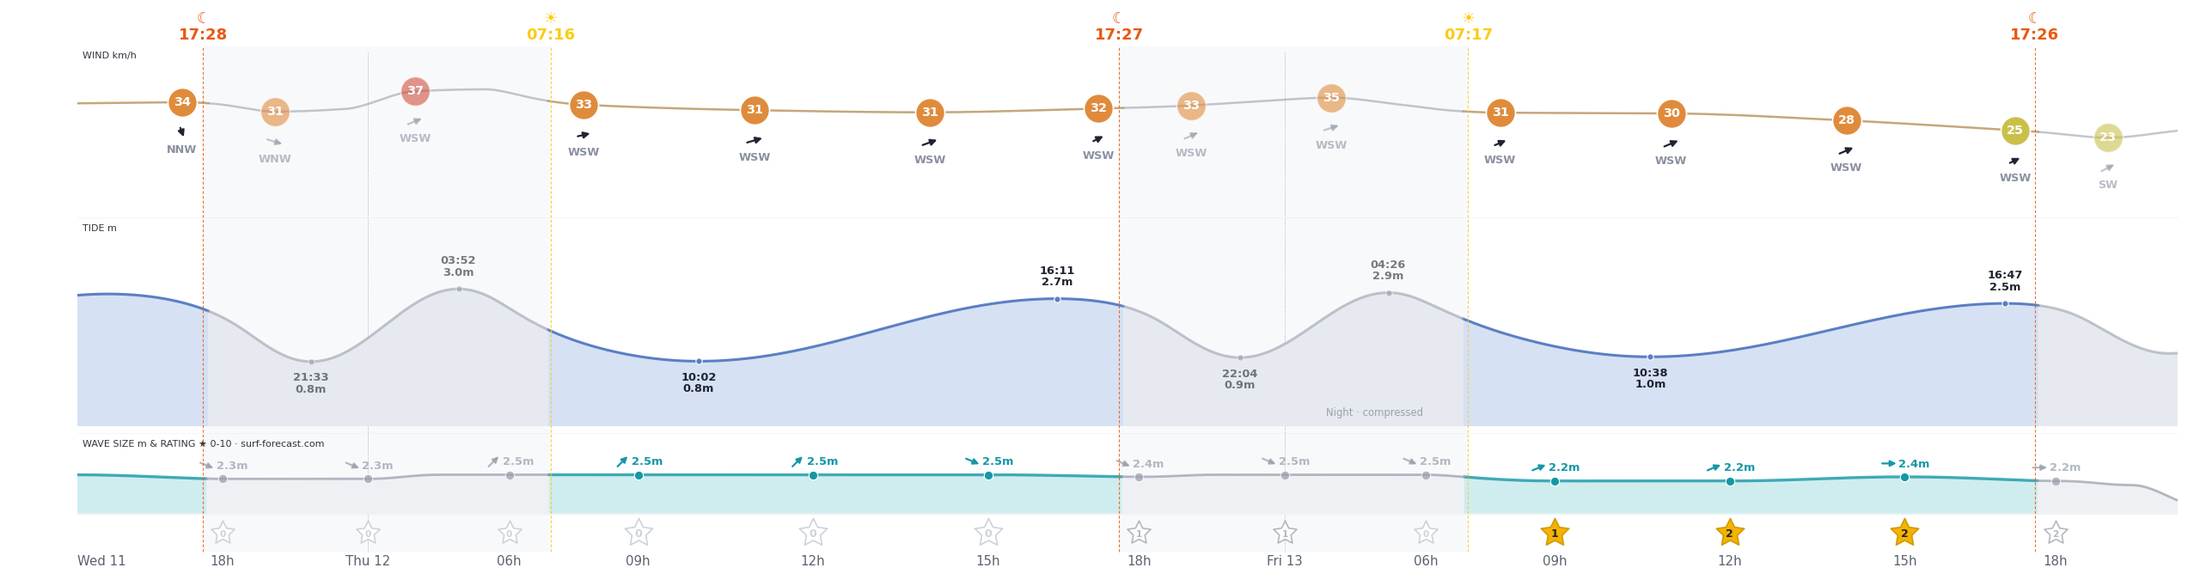
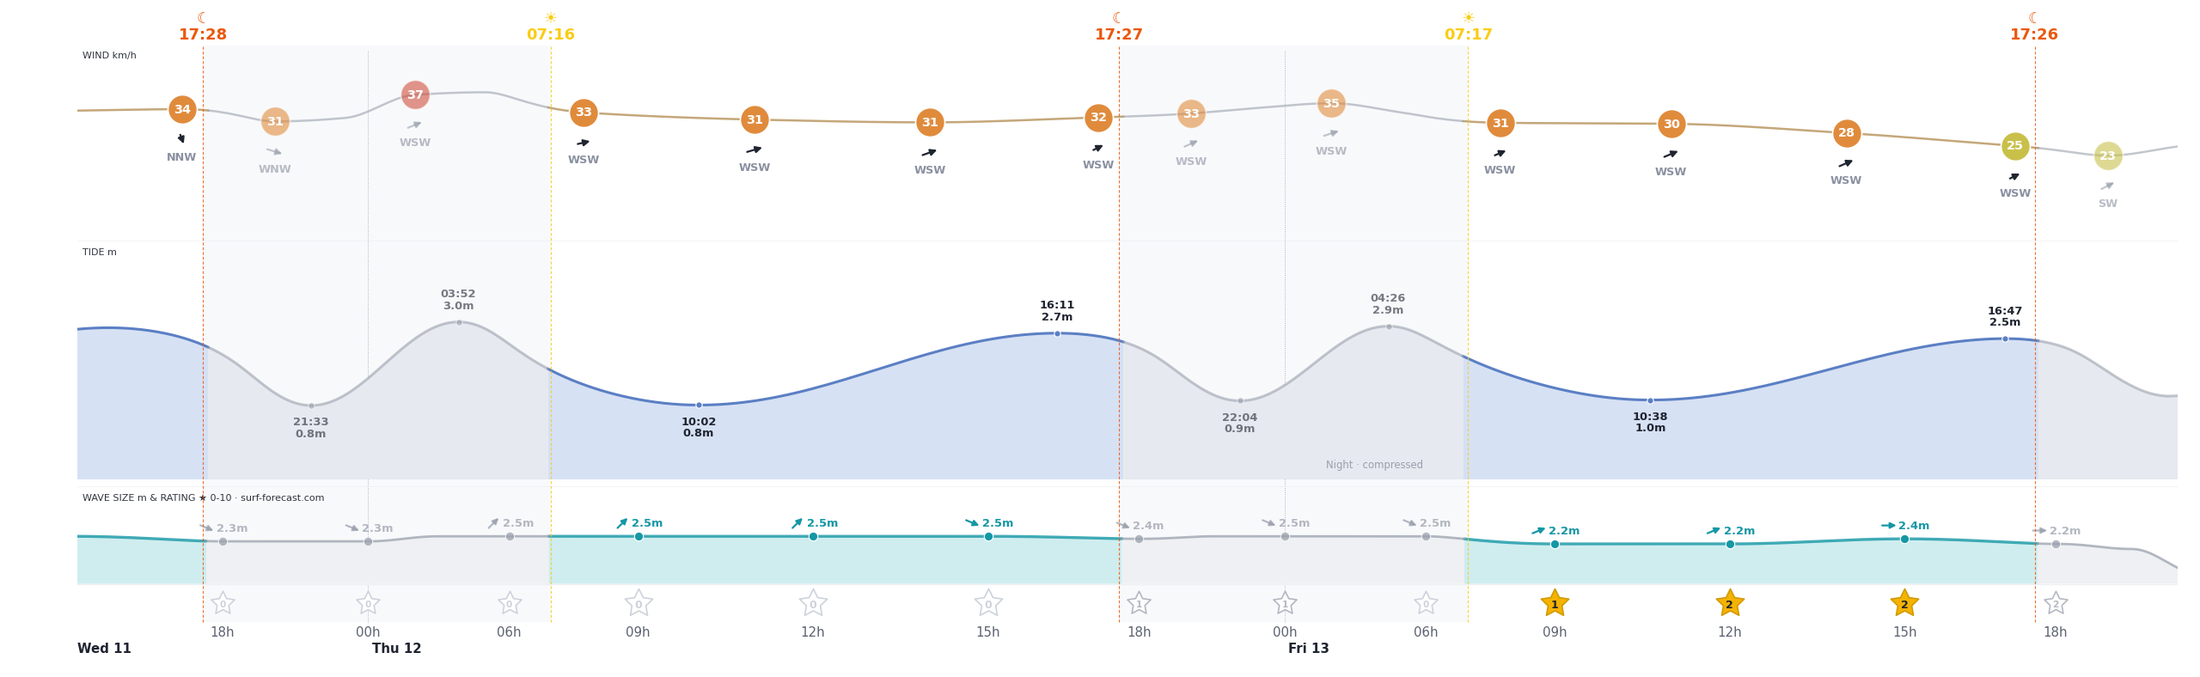
erisurf: run 375

diff --git a/index.html b/index.html
@@ -533,7 +533,7 @@ function draw(){var n=Date.now();cards(n);if(r.open)tide(n)}
 draw();setInterval(draw,60e3);r.addEventListener('toggle',draw);
 document.addEventListener('visibilitychange',function(){if(!document.hidden)draw()});
 if(window.ResizeObserver)new ResizeObserver(function(){if(r.open)draw()}).observe(o);
-})();</script><h2 class="livehd" id="conditions">Wind, tide &amp; surf forecast <span class="plan-fc">· Next 36h</span></h2><figure id="pic-conditions" class="c36"><div class="livechart" data-geo="{&quot;t0&quot;: 1794409529, &quot;t1&quot;: 1794540960, &quot;report&quot;: 1794415289, &quot;left&quot;: 0.035, &quot;right&quot;: 0.99, &quot;top&quot;: 0.0792, &quot;bottom&quot;: 0.9413, &quot;suns&quot;: [1794418108, 1794467790, 1794504456], &quot;sunk&quot;: [&quot;set&quot;, &quot;rise&quot;, &quot;set&quot;], &quot;warp&quot;: [[1794409529, 0.0], [1794409529, 0.0], [1794410429, 0.01129], [1794411329, 0.02254], [1794412229, 0.03369], [1794413129, 0.04465], [1794414029, 0.05533], [1794414929, 0.06562], [1794415829, 0.07541], [1794416729, 0.08463], [1794417629, 0.09321], [1794418529, 0.10112], [1794419429, 0.10835], [1794420329, 0.11495], [1794421229, 0.12098], [1794422129, 0.12651], [1794423029, 0.13165], [1794423929, 0.1365], [1794424829, 0.14117], [1794425729, 0.14573], [1794426629, 0.15026], [1794427529, 0.15478], [1794428429, 0.1593], [1794429329, 0.16382], [1794430229, 0.16834], [1794431129, 0.17285], [1794432029, 0.17737], [1794432929, 0.18189], [1794433829, 0.18641], [1794434729, 0.19093], [1794435629, 0.19545], [1794436529, 0.19997], [1794437429, 0.20449], [1794438329, 0.20901], [1794439229, 0.21353], [1794440129, 0.21805], [1794441029, 0.22256], [1794441929, 0.22708], [1794442829, 0.2316], [1794443729, 0.23612], [1794444629, 0.24064], [1794445529, 0.24516], [1794446429, 0.24968], [1794447329, 0.2542], [1794448229, 0.25872], [1794449129, 0.26324], [1794450029, 0.26776], [1794450929, 0.27227], [1794451829, 0.27679], [1794452729, 0.28131], [1794453629, 0.28583], [1794454529, 0.29035], [1794455429, 0.29487], [1794456329, 0.29939], [1794457229, 0.30391], [1794458129, 0.30843], [1794459029, 0.31295], [1794459929, 0.31747], [1794460829, 0.32201], [1794461729, 0.32664], [1794462629, 0.33142], [1794463529, 0.33645], [1794464429, 0.34184], [1794465329, 0.34769], [1794466229, 0.35409], [1794467129, 0.36111], [1794468029, 0.36879], [1794468929, 0.37715], [1794469829, 0.38616], [1794470729, 0.39577], [1794471629, 0.4059], [1794472529, 0.41646], [1794473429, 0.42734], [1794474329, 0.43844], [1794475229, 0.44966], [1794476129, 0.46095], [1794477029, 0.47224], [1794477929, 0.48354], [1794478829, 0.49484], [1794479729, 0.50614], [1794480629, 0.51743], [1794481529, 0.52873], [1794482429, 0.54003], [1794483329, 0.55133], [1794484229, 0.56262], [1794485129, 0.57392], [1794486029, 0.58522], [1794486929, 0.59652], [1794487829, 0.60782], [1794488729, 0.61911], [1794489629, 0.63041], [1794490529, 0.64171], [1794491429, 0.65301], [1794492329, 0.6643], [1794493229, 0.6756], [1794494129, 0.6869], [1794495029, 0.6982], [1794495929, 0.70949], [1794496829, 0.72078], [1794497729, 0.73204], [1794498629, 0.74319], [1794499529, 0.75415], [1794500429, 0.76483], [1794501329, 0.77511], [1794502229, 0.78491], [1794503129, 0.79412], [1794504029, 0.8027], [1794504929, 0.81061], [1794505829, 0.81785], [1794506729, 0.82445], [1794507629, 0.83047], [1794508529, 0.836], [1794509429, 0.84114], [1794510329, 0.84599], [1794511229, 0.85066], [1794512129, 0.85523], [1794513029, 0.85975], [1794513929, 0.86427], [1794514829, 0.86879], [1794515729, 0.87331], [1794516629, 0.87783], [1794517529, 0.88235], [1794518429, 0.88687], [1794519329, 0.89139], [1794520229, 0.89591], [1794521129, 0.90042], [1794522029, 0.90494], [1794522929, 0.90946], [1794523829, 0.91398], [1794524729, 0.9185], [1794525629, 0.92302], [1794526529, 0.92754], [1794527429, 0.93206], [1794528329, 0.93658], [1794529229, 0.9411], [1794530129, 0.94562], [1794531029, 0.95013], [1794531929, 0.95465], [1794532829, 0.95917], [1794533729, 0.96369], [1794534629, 0.96821], [1794535529, 0.97273], [1794536429, 0.97725], [1794537329, 0.98177], [1794538229, 0.98629], [1794539129, 0.99081], [1794540029, 0.99533], [1794540929, 0.99984], [1794540960, 1.0]]}"><a href="img/375/conditions36.png" target="_blank" title="open full size"><img loading="lazy" src="img/375/conditions36.png" alt="wind, tide and forecast"></a><div class="nowline" hidden><span class="nowlbl"></span></div><script>(function(){
+})();</script><h2 class="livehd" id="conditions">Wind, tide &amp; surf forecast <span class="plan-fc">· Next 36h</span></h2><figure id="pic-conditions" class="c36"><div class="livechart" data-geo="{&quot;t0&quot;: 1794409529, &quot;t1&quot;: 1794540960, &quot;report&quot;: 1794415289, &quot;left&quot;: 0.035, &quot;right&quot;: 0.99, &quot;top&quot;: 0.0685, &quot;bottom&quot;: 0.9188, &quot;suns&quot;: [1794418108, 1794467790, 1794504456], &quot;sunk&quot;: [&quot;set&quot;, &quot;rise&quot;, &quot;set&quot;], &quot;warp&quot;: [[1794409529, 0.0], [1794409529, 0.0], [1794410429, 0.01129], [1794411329, 0.02254], [1794412229, 0.03369], [1794413129, 0.04465], [1794414029, 0.05533], [1794414929, 0.06562], [1794415829, 0.07541], [1794416729, 0.08463], [1794417629, 0.09321], [1794418529, 0.10112], [1794419429, 0.10835], [1794420329, 0.11495], [1794421229, 0.12098], [1794422129, 0.12651], [1794423029, 0.13165], [1794423929, 0.1365], [1794424829, 0.14117], [1794425729, 0.14573], [1794426629, 0.15026], [1794427529, 0.15478], [1794428429, 0.1593], [1794429329, 0.16382], [1794430229, 0.16834], [1794431129, 0.17285], [1794432029, 0.17737], [1794432929, 0.18189], [1794433829, 0.18641], [1794434729, 0.19093], [1794435629, 0.19545], [1794436529, 0.19997], [1794437429, 0.20449], [1794438329, 0.20901], [1794439229, 0.21353], [1794440129, 0.21805], [1794441029, 0.22256], [1794441929, 0.22708], [1794442829, 0.2316], [1794443729, 0.23612], [1794444629, 0.24064], [1794445529, 0.24516], [1794446429, 0.24968], [1794447329, 0.2542], [1794448229, 0.25872], [1794449129, 0.26324], [1794450029, 0.26776], [1794450929, 0.27227], [1794451829, 0.27679], [1794452729, 0.28131], [1794453629, 0.28583], [1794454529, 0.29035], [1794455429, 0.29487], [1794456329, 0.29939], [1794457229, 0.30391], [1794458129, 0.30843], [1794459029, 0.31295], [1794459929, 0.31747], [1794460829, 0.32201], [1794461729, 0.32664], [1794462629, 0.33142], [1794463529, 0.33645], [1794464429, 0.34184], [1794465329, 0.34769], [1794466229, 0.35409], [1794467129, 0.36111], [1794468029, 0.36879], [1794468929, 0.37715], [1794469829, 0.38616], [1794470729, 0.39577], [1794471629, 0.4059], [1794472529, 0.41646], [1794473429, 0.42734], [1794474329, 0.43844], [1794475229, 0.44966], [1794476129, 0.46095], [1794477029, 0.47224], [1794477929, 0.48354], [1794478829, 0.49484], [1794479729, 0.50614], [1794480629, 0.51743], [1794481529, 0.52873], [1794482429, 0.54003], [1794483329, 0.55133], [1794484229, 0.56262], [1794485129, 0.57392], [1794486029, 0.58522], [1794486929, 0.59652], [1794487829, 0.60782], [1794488729, 0.61911], [1794489629, 0.63041], [1794490529, 0.64171], [1794491429, 0.65301], [1794492329, 0.6643], [1794493229, 0.6756], [1794494129, 0.6869], [1794495029, 0.6982], [1794495929, 0.70949], [1794496829, 0.72078], [1794497729, 0.73204], [1794498629, 0.74319], [1794499529, 0.75415], [1794500429, 0.76483], [1794501329, 0.77511], [1794502229, 0.78491], [1794503129, 0.79412], [1794504029, 0.8027], [1794504929, 0.81061], [1794505829, 0.81785], [1794506729, 0.82445], [1794507629, 0.83047], [1794508529, 0.836], [1794509429, 0.84114], [1794510329, 0.84599], [1794511229, 0.85066], [1794512129, 0.85523], [1794513029, 0.85975], [1794513929, 0.86427], [1794514829, 0.86879], [1794515729, 0.87331], [1794516629, 0.87783], [1794517529, 0.88235], [1794518429, 0.88687], [1794519329, 0.89139], [1794520229, 0.89591], [1794521129, 0.90042], [1794522029, 0.90494], [1794522929, 0.90946], [1794523829, 0.91398], [1794524729, 0.9185], [1794525629, 0.92302], [1794526529, 0.92754], [1794527429, 0.93206], [1794528329, 0.93658], [1794529229, 0.9411], [1794530129, 0.94562], [1794531029, 0.95013], [1794531929, 0.95465], [1794532829, 0.95917], [1794533729, 0.96369], [1794534629, 0.96821], [1794535529, 0.97273], [1794536429, 0.97725], [1794537329, 0.98177], [1794538229, 0.98629], [1794539129, 0.99081], [1794540029, 0.99533], [1794540929, 0.99984], [1794540960, 1.0]]}"><a href="img/375/conditions36.png" target="_blank" title="open full size"><img loading="lazy" src="img/375/conditions36.png" alt="wind, tide and forecast"></a><div class="nowline" hidden><span class="nowlbl"></span></div><script>(function(){
 var box=document.currentScript.parentNode,g=JSON.parse(box.dataset.geo),
 line=box.querySelector('.nowline'),lbl=line.firstChild;
 // time -> fraction of the plot width; piecewise when the night is squeezed
@@ -572,7 +572,7 @@ function place(){
 place();setInterval(place,60000);
 // the 72h chart sits in a closed <details>: place the line when it opens
 var dd=box.closest('details');if(dd)dd.addEventListener('toggle',place);
-})();</script></div><details class="c72"><summary title="Show / hide the next 72h"><span class="c72-open">&gt;&gt;</span><span class="c72-close">&lt;&lt;</span></summary><div class="scroll72"><div class="livechart" data-geo="{&quot;t0&quot;: 1794409529, &quot;t1&quot;: 1794610800, &quot;report&quot;: 1794415289, &quot;left&quot;: 0.035, &quot;right&quot;: 0.99, &quot;top&quot;: 0.0792, &quot;bottom&quot;: 0.9413, &quot;suns&quot;: [1794418108, 1794467790, 1794504456, 1794554259, 1794590805], &quot;sunk&quot;: [&quot;set&quot;, &quot;rise&quot;, &quot;set&quot;, &quot;rise&quot;, &quot;set&quot;], &quot;warp&quot;: [[1794409529, 0.0], [1794409529, 0.0], [1794410429, 0.00694], [1794411329, 0.01386], [1794412229, 0.02072], [1794413129, 0.02746], [1794414029, 0.03402], [1794414929, 0.04035], [1794415829, 0.04637], [1794416729, 0.05204], [1794417629, 0.05731], [1794418529, 0.06217], [1794419429, 0.06662], [1794420329, 0.07068], [1794421229, 0.07439], [1794422129, 0.07779], [1794423029, 0.08095], [1794423929, 0.08393], [1794424829, 0.0868], [1794425729, 0.08961], [1794426629, 0.09239], [1794427529, 0.09517], [1794428429, 0.09795], [1794429329, 0.10073], [1794430229, 0.10351], [1794431129, 0.10628], [1794432029, 0.10906], [1794432929, 0.11184], [1794433829, 0.11462], [1794434729, 0.1174], [1794435629, 0.12018], [1794436529, 0.12296], [1794437429, 0.12573], [1794438329, 0.12851], [1794439229, 0.13129], [1794440129, 0.13407], [1794441029, 0.13685], [1794441929, 0.13963], [1794442829, 0.14241], [1794443729, 0.14519], [1794444629, 0.14796], [1794445529, 0.15074], [1794446429, 0.15352], [1794447329, 0.1563], [1794448229, 0.15908], [1794449129, 0.16186], [1794450029, 0.16464], [1794450929, 0.16741], [1794451829, 0.17019], [1794452729, 0.17297], [1794453629, 0.17575], [1794454529, 0.17853], [1794455429, 0.18131], [1794456329, 0.18409], [1794457229, 0.18687], [1794458129, 0.18964], [1794459029, 0.19242], [1794459929, 0.1952], [1794460829, 0.198], [1794461729, 0.20084], [1794462629, 0.20378], [1794463529, 0.20688], [1794464429, 0.21019], [1794465329, 0.21379], [1794466229, 0.21772], [1794467129, 0.22204], [1794468029, 0.22676], [1794468929, 0.2319], [1794469829, 0.23744], [1794470729, 0.24335], [1794471629, 0.24958], [1794472529, 0.25607], [1794473429, 0.26276], [1794474329, 0.26959], [1794475229, 0.27649], [1794476129, 0.28342], [1794477029, 0.29037], [1794477929, 0.29732], [1794478829, 0.30426], [1794479729, 0.31121], [1794480629, 0.31816], [1794481529, 0.3251], [1794482429, 0.33205], [1794483329, 0.339], [1794484229, 0.34594], [1794485129, 0.35289], [1794486029, 0.35984], [1794486929, 0.36678], [1794487829, 0.37373], [1794488729, 0.38068], [1794489629, 0.38762], [1794490529, 0.39457], [1794491429, 0.40152], [1794492329, 0.40846], [1794493229, 0.41541], [1794494129, 0.42236], [1794495029, 0.4293], [1794495929, 0.43625], [1794496829, 0.44319], [1794497729, 0.45011], [1794498629, 0.45697], [1794499529, 0.46371], [1794500429, 0.47027], [1794501329, 0.4766], [1794502229, 0.48262], [1794503129, 0.48829], [1794504029, 0.49356], [1794504929, 0.49843], [1794505829, 0.50288], [1794506729, 0.50693], [1794507629, 0.51064], [1794508529, 0.51404], [1794509429, 0.5172], [1794510329, 0.52018], [1794511229, 0.52305], [1794512129, 0.52586], [1794513029, 0.52864], [1794513929, 0.53142], [1794514829, 0.5342], [1794515729, 0.53698], [1794516629, 0.53976], [1794517529, 0.54254], [1794518429, 0.54531], [1794519329, 0.54809], [1794520229, 0.55087], [1794521129, 0.55365], [1794522029, 0.55643], [1794522929, 0.55921], [1794523829, 0.56199], [1794524729, 0.56476], [1794525629, 0.56754], [1794526529, 0.57032], [1794527429, 0.5731], [1794528329, 0.57588], [1794529229, 0.57866], [1794530129, 0.58144], [1794531029, 0.58422], [1794531929, 0.58699], [1794532829, 0.58977], [1794533729, 0.59255], [1794534629, 0.59533], [1794535529, 0.59811], [1794536429, 0.60089], [1794537329, 0.60367], [1794538229, 0.60644], [1794539129, 0.60922], [1794540029, 0.612], [1794540929, 0.61478], [1794541829, 0.61756], [1794542729, 0.62034], [1794543629, 0.62312], [1794544529, 0.6259], [1794545429, 0.62867], [1794546329, 0.63145], [1794547229, 0.63425], [1794548129, 0.63709], [1794549029, 0.64003], [1794549929, 0.64313], [1794550829, 0.64644], [1794551729, 0.65004], [1794552629, 0.65397], [1794553529, 0.65829], [1794554429, 0.66301], [1794555329, 0.66815], [1794556229, 0.67369], [1794557129, 0.6796], [1794558029, 0.68583], [1794558929, 0.69232], [1794559829, 0.69901], [1794560729, 0.70584], [1794561629, 0.71274], [1794562529, 0.71968], [1794563429, 0.72662], [1794564329, 0.73357], [1794565229, 0.74052], [1794566129, 0.74746], [1794567029, 0.75441], [1794567929, 0.76136], [1794568829, 0.7683], [1794569729, 0.77525], [1794570629, 0.7822], [1794571529, 0.78914], [1794572429, 0.79609], [1794573329, 0.80304], [1794574229, 0.80998], [1794575129, 0.81693], [1794576029, 0.82388], [1794576929, 0.83082], [1794577829, 0.83777], [1794578729, 0.84472], [1794579629, 0.85166], [1794580529, 0.85861], [1794581429, 0.86556], [1794582329, 0.8725], [1794583229, 0.87944], [1794584129, 0.88636], [1794585029, 0.89322], [1794585929, 0.89996], [1794586829, 0.90652], [1794587729, 0.91285], [1794588629, 0.91887], [1794589529, 0.92454], [1794590429, 0.92981], [1794591329, 0.93468], [1794592229, 0.93913], [1794593129, 0.94318], [1794594029, 0.94689], [1794594929, 0.95029], [1794595829, 0.95345], [1794596729, 0.95643], [1794597629, 0.9593], [1794598529, 0.96211], [1794599429, 0.96489], [1794600329, 0.96767], [1794601229, 0.97045], [1794602129, 0.97323], [1794603029, 0.97601], [1794603929, 0.97879], [1794604829, 0.98157], [1794605729, 0.98434], [1794606629, 0.98712], [1794607529, 0.9899], [1794608429, 0.99268], [1794609329, 0.99546], [1794610229, 0.99824], [1794610800, 1.0]], &quot;fs&quot;: 2}"><a href="img/375/conditions72.png" target="_blank" title="open full size"><img loading="lazy" src="img/375/conditions72.png" alt="wind, tide and forecast, 72h"></a><div class="nowline" hidden><span class="nowlbl"></span></div><script>(function(){
+})();</script></div><details class="c72"><summary title="Show / hide the next 72h"><span class="c72-open">&gt;&gt;</span><span class="c72-close">&lt;&lt;</span></summary><div class="scroll72"><div class="livechart" data-geo="{&quot;t0&quot;: 1794409529, &quot;t1&quot;: 1794610800, &quot;report&quot;: 1794415289, &quot;left&quot;: 0.035, &quot;right&quot;: 0.99, &quot;top&quot;: 0.0685, &quot;bottom&quot;: 0.9188, &quot;suns&quot;: [1794418108, 1794467790, 1794504456, 1794554259, 1794590805], &quot;sunk&quot;: [&quot;set&quot;, &quot;rise&quot;, &quot;set&quot;, &quot;rise&quot;, &quot;set&quot;], &quot;warp&quot;: [[1794409529, 0.0], [1794409529, 0.0], [1794410429, 0.00694], [1794411329, 0.01386], [1794412229, 0.02072], [1794413129, 0.02746], [1794414029, 0.03402], [1794414929, 0.04035], [1794415829, 0.04637], [1794416729, 0.05204], [1794417629, 0.05731], [1794418529, 0.06217], [1794419429, 0.06662], [1794420329, 0.07068], [1794421229, 0.07439], [1794422129, 0.07779], [1794423029, 0.08095], [1794423929, 0.08393], [1794424829, 0.0868], [1794425729, 0.08961], [1794426629, 0.09239], [1794427529, 0.09517], [1794428429, 0.09795], [1794429329, 0.10073], [1794430229, 0.10351], [1794431129, 0.10628], [1794432029, 0.10906], [1794432929, 0.11184], [1794433829, 0.11462], [1794434729, 0.1174], [1794435629, 0.12018], [1794436529, 0.12296], [1794437429, 0.12573], [1794438329, 0.12851], [1794439229, 0.13129], [1794440129, 0.13407], [1794441029, 0.13685], [1794441929, 0.13963], [1794442829, 0.14241], [1794443729, 0.14519], [1794444629, 0.14796], [1794445529, 0.15074], [1794446429, 0.15352], [1794447329, 0.1563], [1794448229, 0.15908], [1794449129, 0.16186], [1794450029, 0.16464], [1794450929, 0.16741], [1794451829, 0.17019], [1794452729, 0.17297], [1794453629, 0.17575], [1794454529, 0.17853], [1794455429, 0.18131], [1794456329, 0.18409], [1794457229, 0.18687], [1794458129, 0.18964], [1794459029, 0.19242], [1794459929, 0.1952], [1794460829, 0.198], [1794461729, 0.20084], [1794462629, 0.20378], [1794463529, 0.20688], [1794464429, 0.21019], [1794465329, 0.21379], [1794466229, 0.21772], [1794467129, 0.22204], [1794468029, 0.22676], [1794468929, 0.2319], [1794469829, 0.23744], [1794470729, 0.24335], [1794471629, 0.24958], [1794472529, 0.25607], [1794473429, 0.26276], [1794474329, 0.26959], [1794475229, 0.27649], [1794476129, 0.28342], [1794477029, 0.29037], [1794477929, 0.29732], [1794478829, 0.30426], [1794479729, 0.31121], [1794480629, 0.31816], [1794481529, 0.3251], [1794482429, 0.33205], [1794483329, 0.339], [1794484229, 0.34594], [1794485129, 0.35289], [1794486029, 0.35984], [1794486929, 0.36678], [1794487829, 0.37373], [1794488729, 0.38068], [1794489629, 0.38762], [1794490529, 0.39457], [1794491429, 0.40152], [1794492329, 0.40846], [1794493229, 0.41541], [1794494129, 0.42236], [1794495029, 0.4293], [1794495929, 0.43625], [1794496829, 0.44319], [1794497729, 0.45011], [1794498629, 0.45697], [1794499529, 0.46371], [1794500429, 0.47027], [1794501329, 0.4766], [1794502229, 0.48262], [1794503129, 0.48829], [1794504029, 0.49356], [1794504929, 0.49843], [1794505829, 0.50288], [1794506729, 0.50693], [1794507629, 0.51064], [1794508529, 0.51404], [1794509429, 0.5172], [1794510329, 0.52018], [1794511229, 0.52305], [1794512129, 0.52586], [1794513029, 0.52864], [1794513929, 0.53142], [1794514829, 0.5342], [1794515729, 0.53698], [1794516629, 0.53976], [1794517529, 0.54254], [1794518429, 0.54531], [1794519329, 0.54809], [1794520229, 0.55087], [1794521129, 0.55365], [1794522029, 0.55643], [1794522929, 0.55921], [1794523829, 0.56199], [1794524729, 0.56476], [1794525629, 0.56754], [1794526529, 0.57032], [1794527429, 0.5731], [1794528329, 0.57588], [1794529229, 0.57866], [1794530129, 0.58144], [1794531029, 0.58422], [1794531929, 0.58699], [1794532829, 0.58977], [1794533729, 0.59255], [1794534629, 0.59533], [1794535529, 0.59811], [1794536429, 0.60089], [1794537329, 0.60367], [1794538229, 0.60644], [1794539129, 0.60922], [1794540029, 0.612], [1794540929, 0.61478], [1794541829, 0.61756], [1794542729, 0.62034], [1794543629, 0.62312], [1794544529, 0.6259], [1794545429, 0.62867], [1794546329, 0.63145], [1794547229, 0.63425], [1794548129, 0.63709], [1794549029, 0.64003], [1794549929, 0.64313], [1794550829, 0.64644], [1794551729, 0.65004], [1794552629, 0.65397], [1794553529, 0.65829], [1794554429, 0.66301], [1794555329, 0.66815], [1794556229, 0.67369], [1794557129, 0.6796], [1794558029, 0.68583], [1794558929, 0.69232], [1794559829, 0.69901], [1794560729, 0.70584], [1794561629, 0.71274], [1794562529, 0.71968], [1794563429, 0.72662], [1794564329, 0.73357], [1794565229, 0.74052], [1794566129, 0.74746], [1794567029, 0.75441], [1794567929, 0.76136], [1794568829, 0.7683], [1794569729, 0.77525], [1794570629, 0.7822], [1794571529, 0.78914], [1794572429, 0.79609], [1794573329, 0.80304], [1794574229, 0.80998], [1794575129, 0.81693], [1794576029, 0.82388], [1794576929, 0.83082], [1794577829, 0.83777], [1794578729, 0.84472], [1794579629, 0.85166], [1794580529, 0.85861], [1794581429, 0.86556], [1794582329, 0.8725], [1794583229, 0.87944], [1794584129, 0.88636], [1794585029, 0.89322], [1794585929, 0.89996], [1794586829, 0.90652], [1794587729, 0.91285], [1794588629, 0.91887], [1794589529, 0.92454], [1794590429, 0.92981], [1794591329, 0.93468], [1794592229, 0.93913], [1794593129, 0.94318], [1794594029, 0.94689], [1794594929, 0.95029], [1794595829, 0.95345], [1794596729, 0.95643], [1794597629, 0.9593], [1794598529, 0.96211], [1794599429, 0.96489], [1794600329, 0.96767], [1794601229, 0.97045], [1794602129, 0.97323], [1794603029, 0.97601], [1794603929, 0.97879], [1794604829, 0.98157], [1794605729, 0.98434], [1794606629, 0.98712], [1794607529, 0.9899], [1794608429, 0.99268], [1794609329, 0.99546], [1794610229, 0.99824], [1794610800, 1.0]], &quot;fs&quot;: 2}"><a href="img/375/conditions72.png" target="_blank" title="open full size"><img loading="lazy" src="img/375/conditions72.png" alt="wind, tide and forecast, 72h"></a><div class="nowline" hidden><span class="nowlbl"></span></div><script>(function(){
 var box=document.currentScript.parentNode,g=JSON.parse(box.dataset.geo),
 line=box.querySelector('.nowline'),lbl=line.firstChild;
 // time -> fraction of the plot width; piecewise when the night is squeezed
